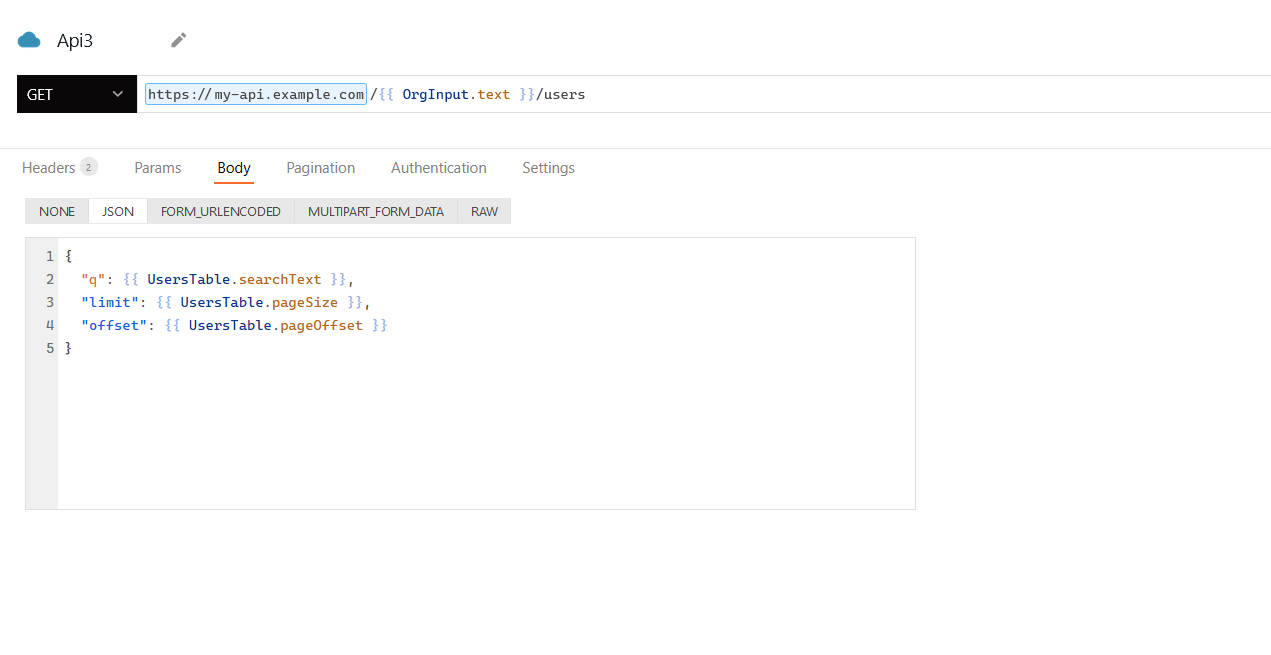
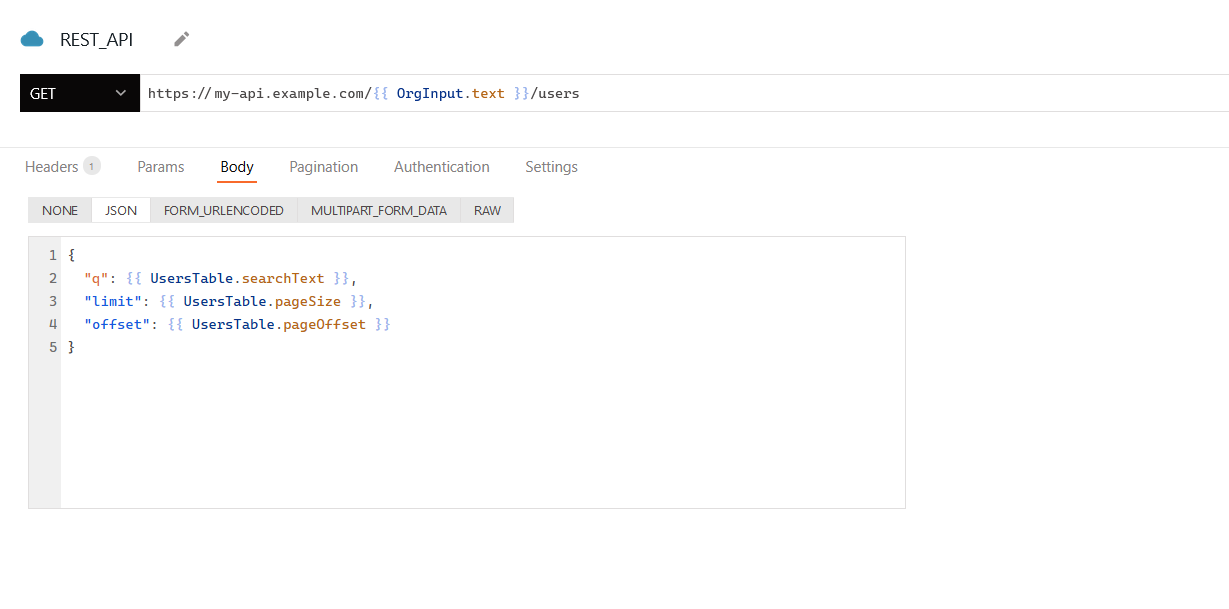
fix: Update to Auth/REST API datasource docs (#1323)
Implements review feedback.

### Review fixes

- Updated intro to match previous rehaul work
- removed empty 2nd level headings
- updated REST API screenshot
- clarified that "Params" are query params
- Description of REST API **Authentication** tab describes the button
and its action (create datasource)
- removed REST API **Settings** tab
- Added content for signature header and self-signed certificate
sections
- Moved query examples into params area
- misc html fixes

## Checklist
I have:
- [x] run the content through Grammarly
- [x] linked to sample apps when relevant
- [x] added the meta description for each page in the PR
- [x] minimized the callouts and added only when necessary
- [x] added the `queryString` parameter to the Tabs (if used)
- [x] masked PII in images. For example, login credentials, account
details, and more
- [x] added images only when necessary
- [x] deleted the images that are no longer used for the updated pages
in the PR
- [x] followed the image file naming convention while renaming or adding
new images. (Use lowercase letters, dashes between words, and be as
descriptive as possible)
- [x] used the `<figure/>` tag instead of a markdown representation for
images
- [x] added the `<figcaption/>` tag to add a caption to the image
- [x] added the `alt` attribute in the `<img/>` tag
- [x] verified and updated the cross-references or created redirect
rules for the changed or removed content
[…]

diff --git a/website/docs/reference/datasources/rest-api.md b/website/docs/reference/datasources/rest-api.md
@@ -4,11 +4,9 @@ description: Query a REST API from Appsmith.
 
 # REST API
 
-This page gives information to connect Appsmith to a REST API and to read and write data in your applications.
+This page describes how to connect your application to a REST API and use queries to read and write data in your applications.
 
 Use this datasource to create a single query for an API that doesn't need complex authentication settings. If you plan to create multiple queries for the same API, you may want to use an [Authenticated API](/reference/datasources/rest-api) datasource. Every query created from an Authenticated API datasource shares configuration (root URL, authentication, headers, and so on) to avoid re-entering details.
-
-## Connect REST API
 
 ## Query REST API
 
@@ -20,8 +18,13 @@ The following section is a reference guide that provides a description of the pa
 </figure>
 
 <dl>  
-  <dt><b>Method and URL</b></dt>
-  <dd>Sets the REST method and endpoint for the query.</dd>
+  <dt><b>Method</b></dt>
+  <dd>Sets the REST method (<code>GET</code>, <code>POST</code>, etc.) to use for the request.</dd>
+</dl>
+
+<dl>  
+  <dt><b>URL</b></dt>
+  <dd>Sets the endpoint to query.</dd>
 </dl>
 
 <dl>  
@@ -32,7 +35,7 @@ The following section is a reference guide that provides a description of the pa
 
 <dl>
   <dt><b>Params</b></dt>
-  <dd>Sets key/value pairs to send as part of the request.</dd>
+  <dd>Sets key/value pairs to send as query parameters in the request.</dd>
 </dl>
 
 <dl>
@@ -41,10 +44,63 @@ The following section is a reference guide that provides a description of the pa
     <ul>
       <li><b>None:</b> Sends no body.</li>
       <li><b>JSON:</b> Expects a JSON object to send as the body.</li>
+    </ul>
+
+<dd><pre>{` 
+{
+  "q": {{ UsersTable.searchText }},
+  "limit": {{ UsersTable.pageSize }},
+  "offset": {{ UsersTable.pageOffset }}
+}
+`}</pre>
+In the example above, values are collected from a [Table widget](/reference/widgets/table) and passed into a JSON object.</dd>
+    <ul>
       <li><b>FORM_URLENCODED:</b> Expects key/value pairs to be encoded into FORM_URLENCODED format as the body.</li>
+    </ul>
+<dd>
+
+|  Key     |  Value                        |
+|----------|-------------------------------|
+| query    | `{{ UsersTable.searchText }}` |
+| limit    | `{{ UsersTable.pageSize }}`   |
+| offset   | `{{ UsersTable.pageOffset }}` |
+
+<pre>{`// result
+"query=arjun&limit=10&offset=20"
+`}</pre>
+<p>Selecting <b>FORM_URLENCODED</b> (for <code>application/x-www-form-urlencoded</code>) automatically encodes your key/value pairs for sending in the request body.</p></dd>
+    <ul>
       <li><b>MULTIPART_FORM_DATA:</b> Expects key/value pairs with a data type to be encoded into MULTIPART_FORM_DATA format as the body.</li>
+    </ul>
+<dd>
+
+|  Key     | Type |  Value                        |
+|----------|------|-------------------------------|
+| user     | Text | `{{ appsmith.user.email }}`   |
+| filename | Text | `{{ FileNameInput.text }}`    |
+| file     | File | `{{ Filepicker.files[0] }}`   |
+
+<pre>{`// result
+"query=arjun&limit=10&offset=20"
+`}</pre>
+<p>Above, values of multiple types are pulled from widgets and added to the query, including file data from a <a href="/reference/widgets/filepicker">Filepicker widget</a>.</p>
+
+:::tip
+When uploading file data, check that your Filepicker widget's **Data Format** property is set correctly. When uploading as multipart/form-data, this should usually be set to `Binary`.
+:::
+</dd>
+    <ul>
       <li><b>RAW:</b> Expects raw binary file data to be sent as the body.</li>
-    </ul> 
+    </ul>
+      <dd><pre>{`{{ Filepicker1.files[0]?.data }}
+`}</pre>
+<p>Use <b>RAW</b> if your endpoint can't accept multipart-encoded data and requires raw body binary instead. Above, the <code>data</code> property of the file is passed to the query instead of the file object itself because the endpoint expects only raw binary data.</p>
+
+:::caution tip
+Be sure to turn off **JSON Smart Substitution** for this query in the [query settings](/core-concepts/data-access-and-binding/querying-a-database/query-settings). This option usually helps cast data into correct JSON, but it is problematic when used with RAW binary.
+:::
+</dd>
+
   </dd>  
 </dl>
 
@@ -61,69 +117,8 @@ The following section is a reference guide that provides a description of the pa
 
 <dl>
   <dt><b>Authentication</b></dt>
-  <dd><em>Use the datasource configuration page to update Authentication settings instead of the query editor.</em></dd>
+  <dd><em>Click the button in this tab to turn this query into a new Authenticated API datasource where you can configure Authentication for your requests.</em></dd>
 </dl>
-
-<dl>
-  <dt><b>Settings</b></dt>
-  <dd>Contains a number of settings to modify the behavior of your query's execution. For reference on each setting, see <a href="/core-concepts/data-access-and-binding/querying-a-database/query-settings">Query Settings</a>.</dd>
-</dl>
-
----
-
-Below are examples of passing body data in several formats:
-
-### JSON data
-
-```json
-{
-	"q": {{ UsersTable.searchText }},
-	"limit": {{ UsersTable.pageSize }},
-	"offset": {{ UsersTable.pageOffset }}
-}
-```
-
-In the example above, values are collected from a [Table widget](/reference/widgets/table) and passed into a JSON object.
-
-### URL-encoded form data
-
-|  Key     |  Value                        |
-|----------|-------------------------------|
-| query    | `{{ UsersTable.searchText }}` |
-| limit    | `{{ UsersTable.pageSize }}`   |
-| offset   | `{{ UsersTable.pageOffset }}` |
-
-```
-"query=arjun&limit=10&offset=20"
-```
-
-Selecting **FORM_URLENCODED** (for `application/x-www-form-urlencoded`) automatically encodes your key/value pairs for sending in the request body.
-
-### Multipart/Form-data
-
-|  Key     | Type |  Value                        |
-|----------|------|-------------------------------|
-| user     | Text | `{{ appsmith.user.email }}`   |
-| filename | Text | `{{ FileNameInput.text }}`    |
-| file     | File | `{{ Filepicker.files[0] }}`   |
-
-Above, values of multiple types are pulled from widgets and added to the query, including file data from a [Filepicker widget](/reference/widgets/filepicker).
-
-:::tip
-When uploading file data, check that your Filepicker widget's **Data Format** property is set correctly. When uploading as multipart/form-data, this should usually be set to `Binary`.
-:::
-
-### Raw data
-
-```javascript
-{{ Filepicker1.files[0]?.data }}
-```
-
-Use **RAW** if your endpoint can't accept multipart-encoded data and requires raw body binary instead. Above, the `data` property of the file is passed to the query instead of the file object itself because the endpoint expects only raw binary data.
-
-:::caution tip
-Be sure to turn off **JSON Smart Substitution** for this query in the [query settings](/core-concepts/data-access-and-binding/querying-a-database/query-settings). This option usually helps cast data into correct JSON, but it is problematic when used with RAW binary.
-:::
 
 ## Troubleshooting
 
